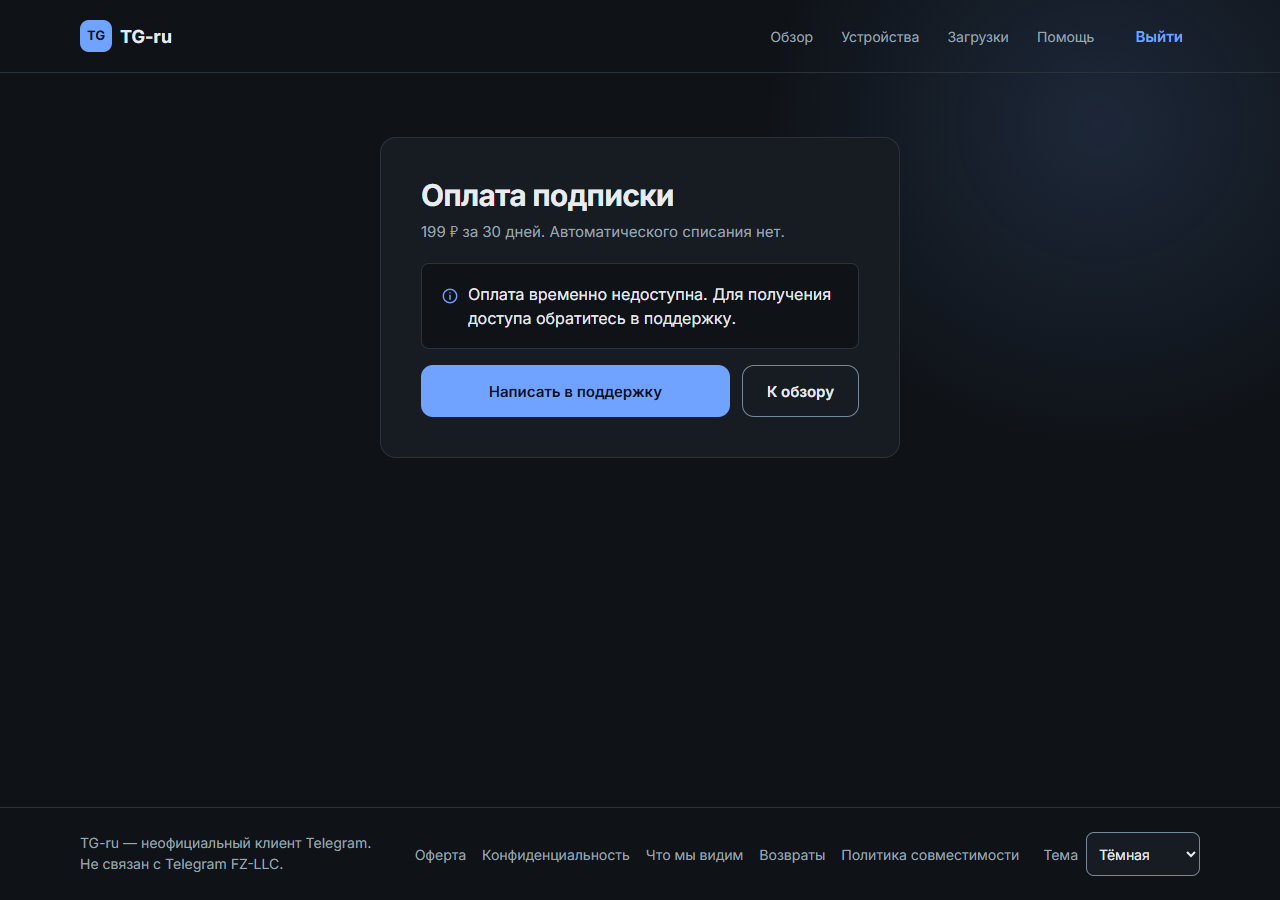
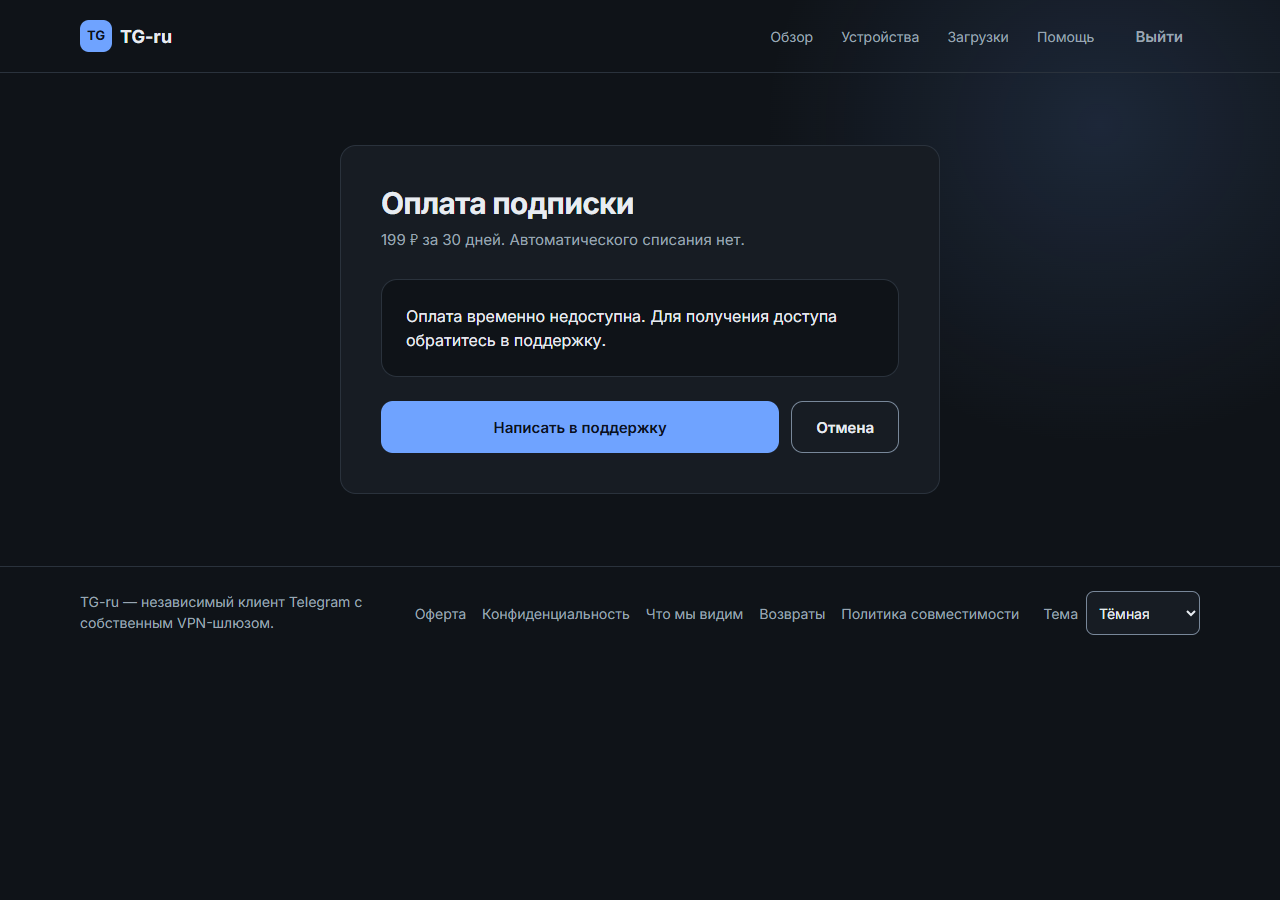
Match all Store pages to the exported mockups

diff --git a/web/local-store/store.css b/web/local-store/store.css
@@ -107,7 +107,7 @@ svg { inline-size: 24px; block-size: 24px; flex: none; }
 nav { display: flex; align-items: center; flex-wrap: wrap; gap: 0 16px; }
 nav a { display: inline-flex; align-items: center; min-block-size: 44px; color: var(--muted); font-size: .875rem; text-decoration: none; }
 nav a:hover { color: var(--accent); text-decoration: underline; }
-nav a[aria-current="page"] { color: var(--accent); text-decoration: underline; font-weight: 600; }
+nav a[aria-current="page"] { color: var(--text); font-weight: 600; }
 .topbar nav { grid-row: 2; grid-column: 1 / -1; }
 .session-links { display: flex; align-items: center; justify-content: end; gap: 4px; }
 .session-links form { margin: 0; }
@@ -133,6 +133,7 @@ nav a[aria-current="page"] { color: var(--accent); text-decoration: underline; f
   overflow-wrap: anywhere;
 }
 .session-links .button { padding-inline: 8px; }
+.session-links .button.ghost { color: var(--muted); }
 .button.primary { background: var(--accent); color: var(--on-accent); }
 .button.secondary { background: transparent; border-color: var(--outline); color: var(--text); }
 .button.ghost { background: transparent; color: var(--accent); }
@@ -174,18 +175,38 @@ nav a[aria-current="page"] { color: var(--accent); text-decoration: underline; f
 .visibility-grid p { margin-block-start: 8px; }
 .text-link { display: inline-flex; gap: 8px; align-items: center; min-block-size: 44px; }
 .text-link svg { inline-size: 20px; block-size: 20px; }
+.plan-group { --plan-accent: var(--accent); margin-block: 30px 0; }
+.plan-group-editor { --plan-accent: #b79cff; }
+:root[data-theme="light"] .plan-group-editor, :root[data-theme="system-light"] .plan-group-editor { --plan-accent: #6748aa; }
+.plan-group-header { display: flex; flex-wrap: wrap; align-items: baseline; justify-content: space-between; gap: 4px 16px; margin-block-end: 34px; }
+.plan-group-header h3 { color: var(--plan-accent); font-size: .8125rem; text-transform: uppercase; letter-spacing: .06em; }
+.plan-group-header p { font-size: .8125rem; }
 .price-grid { display: grid; gap: 16px; }
-.price-panel { display: flex; flex-direction: column; gap: 24px; padding: clamp(22px, 2.6vw, 32px); background: var(--surface); }
-.price-panel h3 { color: var(--accent); font-size: .875rem; text-transform: uppercase; letter-spacing: .06em; }
+.price-panel { position: relative; display: flex; flex-direction: column; gap: 22px; padding: clamp(22px, 2.6vw, 32px); background: var(--surface); }
+.price-panel h4, .plan-custom h3 { margin: 0; color: var(--plan-accent, var(--accent)); font-size: .875rem; font-weight: 700; text-transform: uppercase; letter-spacing: .06em; }
+.plan-badge { position: absolute; inset-block-start: 0; inset-inline-start: 24px; transform: translateY(-50%); border-radius: 999px; background: var(--plan-accent); color: var(--on-accent); padding: 4px 14px; font-size: .8125rem; font-weight: 700; }
+.plan-group-editor .plan-badge { color: #140b2a; }
+:root[data-theme="light"] .plan-group-editor .plan-badge, :root[data-theme="system-light"] .plan-group-editor .plan-badge { color: white; }
+.price-panel.price-highlight-gateway, .price-panel.price-highlight-editor {
+  border-color: var(--plan-accent);
+  background: linear-gradient(180deg, color-mix(in srgb, var(--plan-accent) 13%, var(--surface)), var(--surface) 60%);
+}
+.plan-amount { min-block-size: 62px; }
+.plan-previous { font-size: .875rem; }
+.plan-saving { margin-block-start: 8px; color: var(--plan-accent); font-size: .8125rem; font-weight: 600; }
 .price-panel > .button { margin-block-start: auto; min-block-size: 52px; }
-.price-panel.price-support, .subscription-card { background: linear-gradient(180deg, var(--tint), var(--surface) 80%); }
-.price-panel.price-support, .dashboard-card.subscription-card { border-color: color-mix(in srgb, var(--accent) 66%, var(--border)); }
-.price-support .price strong { font-size: clamp(1.45rem, 2.2vw, 2.15rem); }
+.subscription-card { background: linear-gradient(180deg, var(--tint), var(--surface) 80%); }
+.dashboard-card.subscription-card { border-color: color-mix(in srgb, var(--accent) 66%, var(--border)); }
 .plan-points { display: grid; gap: 12px; list-style: none; margin: 0; padding: 0; font-size: .9375rem; }
 .plan-points li { display: flex; align-items: flex-start; gap: 10px; }
-.plan-points svg { inline-size: 16px; block-size: 16px; margin-block-start: 3px; color: var(--accent); }
+.plan-points svg { inline-size: 16px; block-size: 16px; margin-block-start: 3px; }
 .price { display: flex; flex-wrap: wrap; align-items: baseline; gap: 8px; color: var(--text); }
 .price strong { font-size: clamp(2.15rem, 1.2rem + 2.6vw, 3rem); letter-spacing: -.026em; line-height: 1.24; font-variant-numeric: tabular-nums; }
+.price > span { color: var(--muted); }
+.plan-custom { margin-block-start: 16px; }
+.plan-custom h3 { color: var(--warning); }
+.plan-custom strong { display: block; margin-block: 6px; font-size: clamp(1.5rem, 2.3vw, 2rem); letter-spacing: -.02em; }
+.plan-custom p { max-inline-size: 65ch; font-size: .9375rem; }
 .faq { border-top: 1px solid var(--border); }
 .faq details { border-bottom: 1px solid var(--border); }
 summary { cursor: pointer; }
@@ -193,11 +214,22 @@ summary { cursor: pointer; }
 .faq details p { padding-block-end: 16px; max-inline-size: 70ch; }
 
 .form-page { display: grid; grid-template-columns: minmax(0, 1fr); gap: 24px; max-inline-size: 480px; padding-block: clamp(40px, 5vw, 64px); }
-.checkout-page { max-inline-size: 520px; }
+.register-page { max-inline-size: 560px; padding-block: clamp(32px, 4.4vw, 56px); }
+.register-page .form-card { gap: 20px; }
+.register-page .password { position: relative; display: block; }
+.register-page .password:has(button:not([hidden])) input { padding-inline-end: 96px; }
+.register-page .password button { position: absolute; inset-inline-end: 4px; inset-block-start: 4px; min-block-size: 44px; padding: 4px 10px; }
+.password-hints { display: flex; flex-wrap: wrap; align-items: center; justify-content: space-between; gap: 2px 8px; }
+.password-hints .generate { position: relative; min-block-size: 26px; padding: 2px 0; }
+.password-hints .generate::after { position: absolute; inset: -9px 0; content: ""; }
+.checkout-page { max-inline-size: 600px; padding-block: clamp(40px, 5.7vw, 72px); }
+main:has(.checkout-page) { flex: 0; }
+.checkout-page .form-card { gap: 24px; }
 .checkout-page .actions { gap: 12px; }
 .checkout-page .actions .primary { flex: 1 0 auto; }
 .checkout-page .actions .button { min-block-size: 52px; }
-.checkout-page .notice { border: 1px solid var(--border); background: var(--bg); padding: 18px; }
+.checkout-page .notice { border: 1px solid var(--border); border-radius: 16px; background: var(--bg); padding: 24px; }
+.register-page input:disabled { cursor: not-allowed; }
 .form-intro p, .page-heading p { margin-block-start: 8px; }
 .form-card { display: grid; grid-template-columns: minmax(0, 1fr); gap: 16px; padding: clamp(22px, 4.3vw, 40px); }
 .form-card .form-intro { margin-block-end: 4px; }
@@ -233,11 +265,24 @@ summary { cursor: pointer; }
 .dashboard-card { display: flex; flex-direction: column; align-items: start; gap: 12px; padding: clamp(20px, 4vw, 32px); }
 .dashboard-card h2 { font-size: 1.25rem; }
 .dashboard-card h2.access-title { font-size: clamp(1.75rem, 1.4rem + 1.4vw, 2.5rem); }
+.dashboard-card .access-label { color: var(--accent); font-size: .875rem; font-weight: 700; letter-spacing: .06em; text-transform: uppercase; }
+.access-progress { inline-size: 100%; block-size: 8px; border: 0; border-radius: 999px; overflow: hidden; background: var(--border); }
+.access-progress::-webkit-progress-bar { background: var(--border); }
+.access-progress::-webkit-progress-value { background: var(--accent); }
+.access-progress::-moz-progress-bar { background: var(--accent); }
+.download-hash-link { align-self: center; }
+.payments-card { margin-block-start: 16px; }
 .dashboard-card .actions, .dashboard-card > .button { margin-block-start: 8px; }
 .dashboard-aside .button { inline-size: 100%; margin-block-start: auto; }
 .dashboard-card-heading { display: flex; flex-wrap: wrap; justify-content: space-between; align-items: baseline; gap: 8px 16px; inline-size: 100%; }
 .device-overview-list { margin: 0; padding: 0; list-style: none; inline-size: 100%; }
 .device-overview-list li { display: flex; align-items: center; gap: 12px; padding-block: 12px; border-top: 1px solid var(--border); }
+.device-overview-list .device-name { min-inline-size: 0; flex: 1; }
+.device-overview-list .revoke summary { list-style: none; padding: 8px 16px; min-block-size: 40px; border: 1px solid var(--border); border-radius: 12px; color: var(--text); }
+.device-overview-list .revoke summary::-webkit-details-marker { display: none; }
+.device-overview-list .revoke summary:hover { background: var(--tint); }
+.device-overview-list .revoke[open] { flex-basis: 100%; }
+.device-overview-list li:has(.revoke[open]) { flex-wrap: wrap; }
 .page-heading { padding-block-end: 8px; }
 .status-line { display: flex; align-items: center; flex-wrap: wrap; gap: 8px 12px; }
 .status-line + p { margin-block-start: 8px; }
@@ -277,6 +322,8 @@ summary { cursor: pointer; }
   .topbar nav { gap: 0 12px; }
   .topbar nav a { font-size: .8125rem; }
   .checkout-page .actions { display: grid; grid-template-columns: minmax(0, 1fr); }
+  .device-overview-list li { flex-wrap: wrap; }
+  .device-overview-list .revoke { margin-inline-start: 48px; }
 }
 
 @media (min-width: 600px) {
@@ -300,8 +347,15 @@ summary { cursor: pointer; }
   .hero .actions { gap: 16px; }
   .hero .button { min-block-size: 56px; padding-inline: 32px; }
   .steps { grid-template-columns: repeat(3, minmax(0, 1fr)); }
-  .price-grid { grid-template-columns: repeat(3, minmax(0, 1fr)); }
   .dashboard-grid { grid-template-columns: minmax(0, 1.7fr) minmax(0, 1fr); }
+}
+
+@media (min-width: 960px) {
+  .price-grid { grid-template-columns: repeat(3, minmax(0, 1fr)); }
+  .plan-group .price-panel { min-block-size: 400px; }
+  .plan-group-editor .price-panel { min-block-size: 450px; }
+  .plan-custom { flex-direction: row; align-items: center; justify-content: space-between; }
+  .plan-custom > .button { flex: none; margin-block-start: 0; }
 }
 
 @media (min-width: 1120px) {

diff --git a/docs/WORKLOG.md b/docs/WORKLOG.md
@@ -8,6 +8,8 @@
 
 ## 13 ноября 2026. Подготовка публикации Store
 
+- Сверены четыре экспорта сайта из HTML, PDF и PNG. На главной возвращены обе группы тарифов и CUSTOM. Вёрстка регистрации, оплаты и кабинета повторяет структуру экспортов. PRO и редактор показаны в разработке, поле email отключено, проба длится пять часов, оплата ведёт в поддержку. В кабинете показаны реальные устройства и остаток пробного периода.
+
[1 lines of base64/hex data omitted]
 - Старый preview17 отправлен владельцу в «Избранное». На основном телефоне через USB проверена установленная версия preview17. Команды, управляющие экраном или воспроизведением на телефоне, не использовались.
 - Загрузки Store доступны из личного кабинета после входа. Билет привязан к сессии, действует 15 минут и расходуется один раз. Nginx обслуживает APK через внутренний маршрут. При публикации сохраняются прежние загрузка, метаданные обновления, API 8443 и REALITY 18443. [Выкладка](../deploy/store/README.md)
